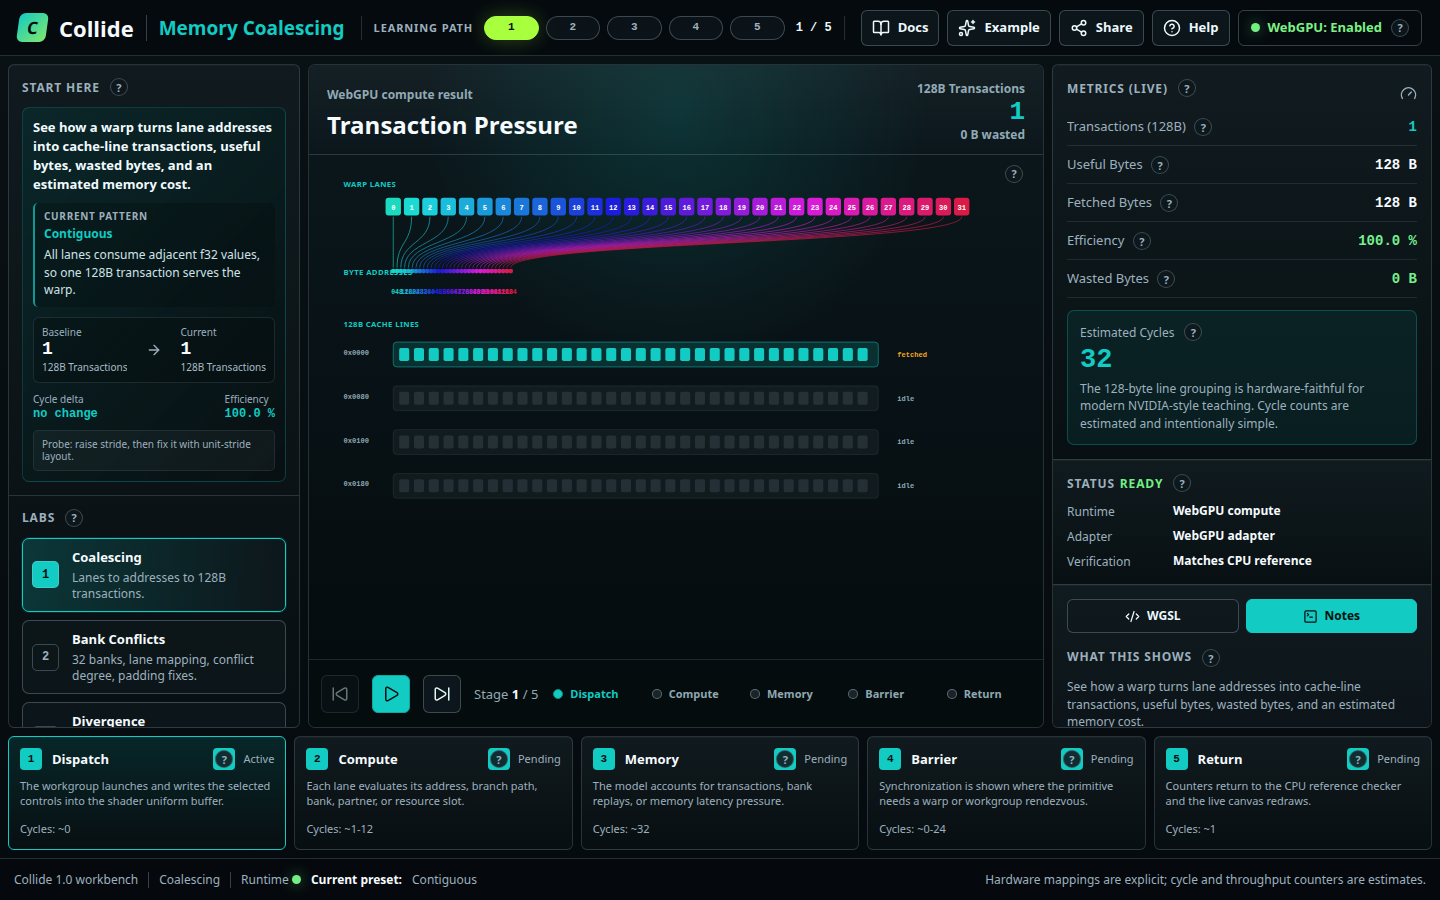
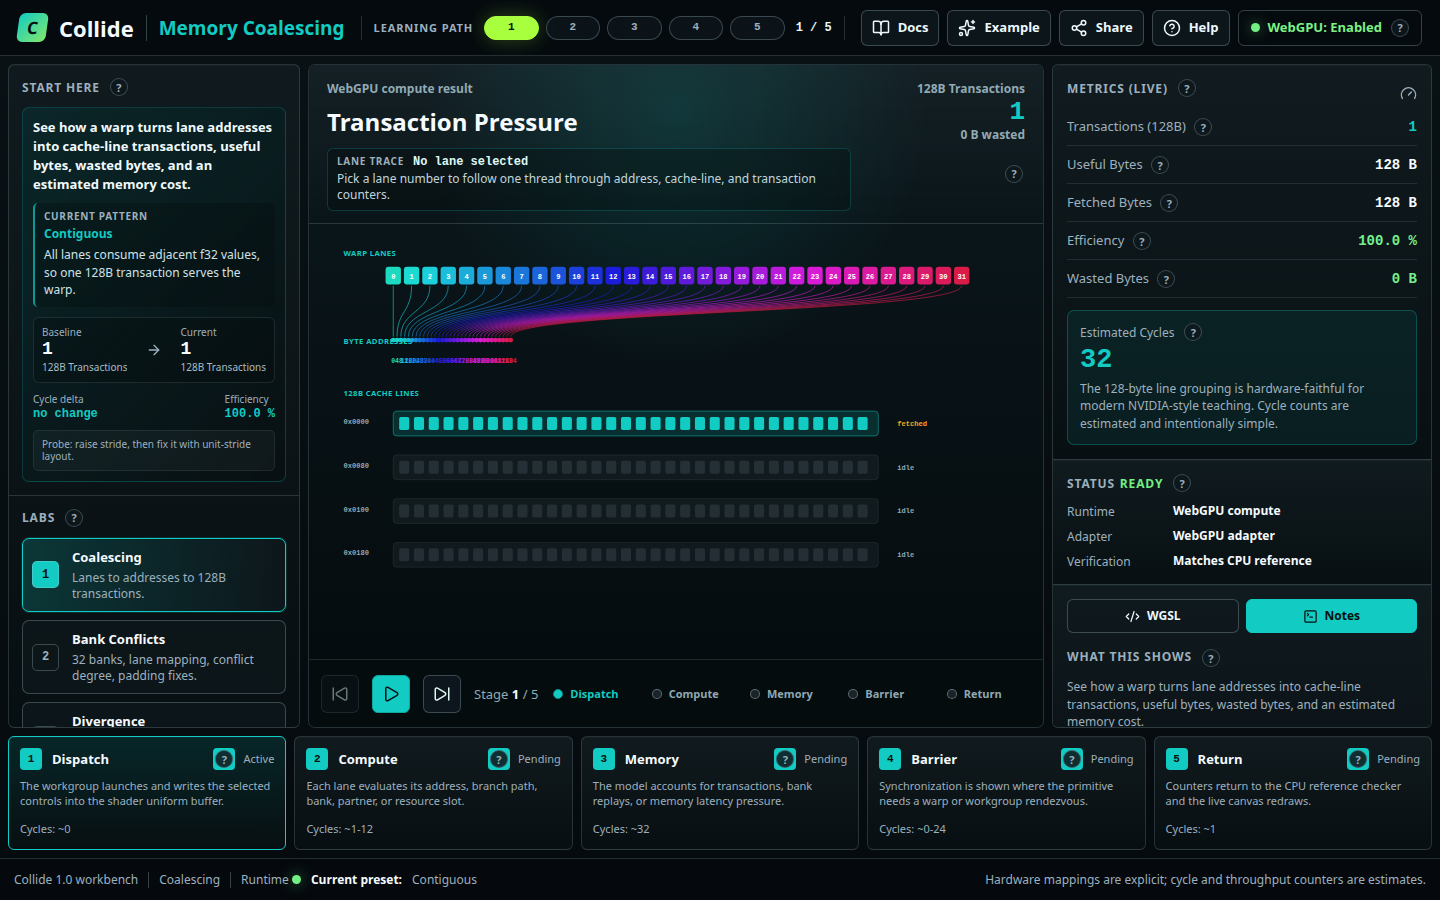
Add coalescing lane selection

Changed region(s): [[0.2188, 0.0933, 0.6875, 0.6222]]

diff --git a/src/components/WorkbenchCanvas.tsx b/src/components/WorkbenchCanvas.tsx
@@ -1,4 +1,4 @@
-import { useMemo } from 'react'
+import { useMemo, useState } from 'react'
 import {
   BANK_COUNT,
   CACHE_LINE_BYTES,
@@ -13,12 +13,25 @@ interface WorkbenchCanvasProps {
 }
 
 export function WorkbenchCanvas({ result }: WorkbenchCanvasProps) {
+  const [laneSelection, setLaneSelection] = useState<{ labId: string, lane: number } | null>(null)
+  const selectedLane = laneSelection?.labId === result.labId ? laneSelection.lane : null
+  const coalescingSelection = result.labId === 'coalescing'
+    ? coalescingSelectionSummary(result, selectedLane)
+    : null
+
   return (
     <div className="workbench-canvas" data-testid="lab-canvas">
       <div className="canvas-header">
-        <div>
+        <div className="canvas-title-block">
           <span>{result.source === 'webgpu' ? 'WebGPU compute result' : 'CPU reference preview'}</span>
           <h2>{result.summary.title}</h2>
+          {coalescingSelection ? (
+            <div className={`canvas-selection ${selectedLane == null ? 'idle' : ''}`} data-testid="canvas-selection">
+              <span>Lane trace</span>
+              <strong>{coalescingSelection.title}</strong>
+              <small>{coalescingSelection.copy}</small>
+            </div>
+          ) : null}
         </div>
         <div className="canvas-score">
           <small>{result.summary.label}</small>
@@ -26,7 +39,13 @@ export function WorkbenchCanvas({ result }: WorkbenchCanvasProps) {
           <span>{result.summary.subvalue}</span>
         </div>
       </div>
-      {result.labId === 'coalescing' ? <CoalescingView result={result} /> : null}
+      {result.labId === 'coalescing' ? (
+        <CoalescingView
+          result={result}
+          selectedLane={selectedLane}
+          onSelectLane={(lane) => setLaneSelection({ labId: result.labId, lane })}
+        />
+      ) : null}
       {result.labId === 'banks' ? <BankView result={result} /> : null}
       {result.labId === 'divergence' ? <DivergenceView result={result} /> : null}
       {result.labId === 'reduction' ? <ReductionView result={result} /> : null}
@@ -35,7 +54,11 @@ export function WorkbenchCanvas({ result }: WorkbenchCanvasProps) {
   )
 }
 
-function CoalescingView({ result }: { result: LabResult }) {
+function CoalescingView({ result, selectedLane, onSelectLane }: {
+  result: LabResult
+  selectedLane: number | null
+  onSelectLane: (lane: number) => void
+}) {
   const maxAddress = result.details.maxAddress ?? CACHE_LINE_BYTES * 4
   const lines = useMemo(() => {
     const next = []
@@ -46,6 +69,7 @@ function CoalescingView({ result }: { result: LabResult }) {
   }, [maxAddress])
   const transactionBases = new Set(result.transactions.map((transaction) => transaction.base))
   const touchedAddresses = new Set(result.lanes.map((lane) => lane.address))
+  const selectedRecord = selectedLane == null ? null : result.lanes.find((lane) => lane.lane === selectedLane) ?? null
   const width = Math.max(1180, result.controls.warpSize * 34)
   const height = 380 + Math.max(0, lines.length - 1) * 74
 
@@ -63,18 +87,55 @@ function CoalescingView({ result }: { result: LabResult }) {
           const x = 112 + index * laneGap(result.controls.warpSize)
           const targetX = addressX(lane.address, maxAddress)
           const color = laneColor(index, result.controls.warpSize)
+          const isSelected = selectedLane === lane.lane
           return (
-            <g key={lane.lane}>
-              <rect x={x - 13} y="52" width="26" height="30" rx="5" fill={color} />
+            <g key={lane.lane} className={`lane-node ${isSelected ? 'selected' : ''}`}>
+              <rect
+                x={x - 13}
+                y="52"
+                width="26"
+                height="30"
+                rx="5"
+                fill={color}
+                stroke={isSelected ? '#f6fbff' : 'transparent'}
+                strokeWidth={isSelected ? 3 : 0}
+              />
               <text x={x} y="72" className="lane-text">{lane.lane}</text>
               <path
                 d={`M ${x} 84 C ${x} 130, ${targetX} 126, ${targetX} 170`}
                 stroke={color}
-                strokeWidth="1.4"
+                strokeWidth={isSelected ? 3 : 1.4}
                 fill="none"
-                opacity="0.72"
+                opacity={isSelected ? 1 : 0.72}
               />
-              <circle cx={targetX} cy="176" r="4" fill={color} />
+              <circle
+                cx={targetX}
+                cy="176"
+                r={isSelected ? 7 : 4}
+                fill={color}
+                stroke={isSelected ? '#f6fbff' : 'transparent'}
+                strokeWidth={isSelected ? 2 : 0}
+              />
+              <rect
+                x={x - 16}
+                y="49"
+                width="32"
+                height="36"
+                rx="7"
+                fill="transparent"
+                className="lane-hit-target"
+                role="button"
+                tabIndex={0}
+                aria-pressed={isSelected}
+                aria-label={`Select lane ${lane.lane}, address ${formatBytes(lane.address)}, ${formatCacheLine(lane.transactionBase)}`}
+                onClick={() => onSelectLane(lane.lane)}
+                onKeyDown={(event) => {
+                  if (event.key === 'Enter' || event.key === ' ') {
+                    event.preventDefault()
+                    onSelectLane(lane.lane)
+                  }
+                }}
+              />
             </g>
           )
         })}
@@ -109,6 +170,7 @@ function CoalescingView({ result }: { result: LabResult }) {
                 const address = base + cell * 4
                 const x = 122 + cell * 25
                 const touched = touchedAddresses.has(address)
+                const selected = selectedRecord?.address === address
                 return (
                   <rect
                     key={address}
@@ -117,7 +179,7 @@ function CoalescingView({ result }: { result: LabResult }) {
                     width="17"
                     height="22"
                     rx="3"
-                    className={touched ? 'memory-byte useful' : fetched ? 'memory-byte wasted' : 'memory-byte'}
+                    className={`${touched ? 'memory-byte useful' : fetched ? 'memory-byte wasted' : 'memory-byte'} ${selected ? 'selected' : ''}`}
                   />
                 )
               })}
@@ -130,6 +192,28 @@ function CoalescingView({ result }: { result: LabResult }) {
       </svg>
     </div>
   )
+}
+
+function coalescingSelectionSummary(result: LabResult, selectedLane: number | null): { title: string, copy: string } {
+  const lane = selectedLane == null ? null : result.lanes.find((record) => record.lane === selectedLane)
+  if (!lane) {
+    return {
+      title: 'No lane selected',
+      copy: 'Pick a lane number to follow one thread through address, cache-line, and transaction counters.',
+    }
+  }
+
+  const transaction = result.transactions.find((band) => band.base === lane.transactionBase)
+  const sharedLaneCount = transaction?.lanes.length ?? 1
+  const lineLabel = formatCacheLine(lane.transactionBase)
+  return {
+    title: `Lane ${lane.lane} -> ${formatBytes(lane.address)}`,
+    copy: `${lineLabel} fetch serves ${sharedLaneCount} ${sharedLaneCount === 1 ? 'lane' : 'lanes'} and contributes ${formatBytes(result.controls.elementSizeBytes)} of useful payload.`,
+  }
+}
+
+function formatCacheLine(base: number): string {
+  return `cache line 0x${base.toString(16).padStart(4, '0')}`
 }
 
 function BankView({ result }: { result: LabResult }) {

diff --git a/src/App.css b/src/App.css
@@ -737,12 +737,18 @@ input[type='range'] {
 
 .canvas-header {
   display: flex;
-  align-items: center;
+  align-items: start;
   justify-content: space-between;
   gap: 18px;
   padding: 16px 18px 12px;
   border-bottom: 1px solid rgba(180, 209, 224, 0.15);
   background: linear-gradient(180deg, rgba(255, 255, 255, 0.035), transparent);
+}
+
+.canvas-title-block {
+  min-width: 0;
+  display: grid;
+  gap: 4px;
 }
 
 .canvas-header span,
@@ -757,6 +763,42 @@ input[type='range'] {
   color: #f6fbff;
   font-size: 24px;
   letter-spacing: 0;
+}
+
+.canvas-selection {
+  max-width: min(620px, 100%);
+  display: flex;
+  flex-wrap: wrap;
+  align-items: baseline;
+  gap: 3px 9px;
+  margin-top: 6px;
+  padding: 7px 9px;
+  border: 1px solid rgba(18, 203, 195, 0.22);
+  border-radius: 6px;
+  background: rgba(2, 6, 8, 0.28);
+}
+
+.canvas-selection span {
+  color: var(--muted);
+  font: 820 10px/1 var(--sans);
+  text-transform: uppercase;
+  letter-spacing: 0.07em;
+}
+
+.canvas-selection strong {
+  color: var(--teal);
+  font: 820 12px/1 var(--mono);
+}
+
+.canvas-selection small {
+  flex-basis: 100%;
+  color: #c0d5dc;
+  font-size: 12px;
+  line-height: 1.35;
+}
+
+.canvas-selection.idle strong {
+  color: #dff8f5;
 }
 
 .canvas-score {
@@ -790,6 +832,31 @@ input[type='range'] {
   fill: var(--teal);
   font: 850 13px/1 var(--sans);
   letter-spacing: 0.05em;
+}
+
+.lane-node {
+  outline: none;
+}
+
+.lane-node path,
+.lane-node circle,
+.lane-node rect {
+  transition: opacity 140ms ease, r 140ms ease, stroke-width 140ms ease;
+}
+
+.lane-hit-target {
+  cursor: pointer;
+  outline: none;
+}
+
+.lane-hit-target:focus-visible {
+  stroke: #f6fbff;
+  stroke-width: 3;
+  fill: rgba(255, 255, 255, 0.06);
+}
+
+.lane-node.selected path {
+  filter: drop-shadow(0 0 5px rgba(18, 203, 195, 0.45));
 }
 
 .lane-text {
@@ -829,6 +896,11 @@ input[type='range'] {
 
 .memory-byte.useful {
   fill: var(--teal);
+}
+
+.memory-byte.selected {
+  stroke: #f6fbff;
+  stroke-width: 2;
 }
 
 .transaction-label.hot {

diff --git a/tests/app.spec.ts b/tests/app.spec.ts
@@ -147,6 +147,21 @@ test('inspector tabs, reduction choice buttons, and sliders update visible state
   await expect(page.locator('.metric-row').filter({ hasText: 'Efficiency' })).toContainText('25.0 %')
 })
 
+test('coalescing canvas lets students select a lane and trace its memory consequence', async ({ page }) => {
+  await page.goto('/')
+  const laneTrace = page.getByTestId('canvas-selection')
+
+  await expect(laneTrace).toContainText('No lane selected')
+  await page.getByRole('button', { name: /Select lane 7/ }).click()
+  await expect(laneTrace).toContainText('Lane 7 -> 28 B')
+  await expect(laneTrace).toContainText('cache line 0x0000')
+  await expect(laneTrace).toContainText('32 lanes')
+
+  await page.getByRole('button', { name: /Strided/ }).click()
+  await expect(laneTrace).toContainText('Lane 7 -> 56 B')
+  await expect(laneTrace).toContainText('16 lanes')
+})
+
 test('contextual question-mark help exists for every major workbench region', async ({ page }) => {
   await page.goto('/')
   const helpButtons = page.getByRole('button', { name: /^Explain / })
